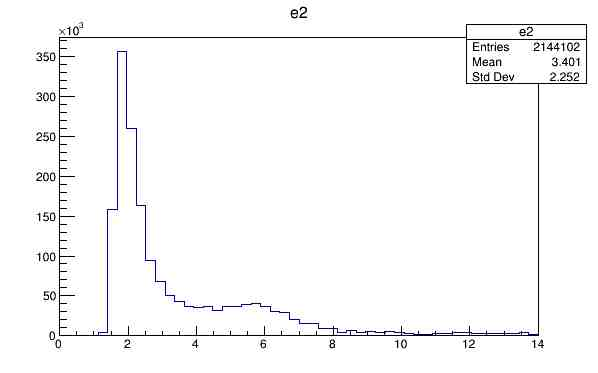
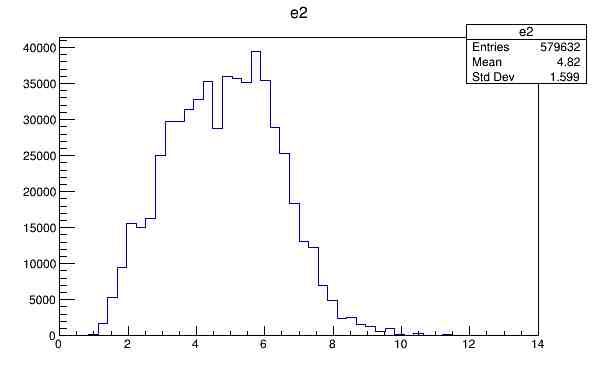
Correct z-track mistake
Instead of taking all the final state particles. Ignore the muons
ANd also take only the hardest jet.

diff --git a/analysis-code/fastjet-analysis.cc b/analysis-code/fastjet-analysis.cc
@@ -2,7 +2,7 @@
 #include "fastjet/PseudoJet.hh"
 #include "fastjet/ClusterSequence.hh"
 #include "fastjet/contrib/SoftDrop.hh"
-void root_to_fastjet(Float_t *px,Float_t *py,Float_t *pz,Float_t *e,Int_t *particle_status,
+void root_to_fastjet(Float_t *px,Float_t *py,Float_t *pz,Float_t *e,Int_t *particle_status,Int_t *particle_PID,
         Int_t n_event_size ,std::vector<float> &e2,double *a){
   std::ifstream fjetin("settings-fastjet.txt");
   double alpha = a[0];
@@ -22,12 +22,12 @@ void root_to_fastjet(Float_t *px,Float_t *py,Float_t *pz,Float_t *e,Int_t *parti
     // Loop over event record to decide what to pass to FastJet
     for (int i = 0; i < n_event_size; ++i) {
       // Store as input to Fastjet
-      if(particle_status[i] == 1){
+      if((particle_status[i] == 1)&&(std::abs(particle_PID[i]) != 13) ){
       fjInputs.push_back( fastjet::PseudoJet( px[i],py[i],pz[i],e[i]));
     }
 
     if (fjInputs.size() == 0) {
-      std::cout << "Error: event with no final state particles" << std::endl;
+      //std::cout << "Error: event with no final state particles" << std::endl;
       continue;
     }
 
@@ -56,9 +56,9 @@ void root_to_fastjet(Float_t *px,Float_t *py,Float_t *pz,Float_t *e,Int_t *parti
     //Softdrop loop
   }
 // Calculating e_2
-    fastjet::ClusterSequence clustSeq2(soft_jets_temp, jetDef);
- // std::vector<fastjet::PseudoJet> soft_jets = fastjet::sorted_by_pt(clustSeq2.inclusive_jets(0.0));
-  std::vector<fastjet::PseudoJet> soft_jets = fastjet::sorted_by_pt(soft_jets_temp);
+   //fastjet::ClusterSequence clustSeq2(soft_jets_temp, jetDef);
+  //std::vector<fastjet::PseudoJet> soft_jets = fastjet::sorted_by_pt(clustSeq2.inclusive_jets(0.0));
+   std::vector<fastjet::PseudoJet> soft_jets = fastjet::sorted_by_pt(soft_jets_temp);
   double e_2 = 0;
   for( unsigned ijet = 0; ijet < soft_jets.size();ijet++){
     if(soft_jets[ijet].pt() < ptcutoff) continue;
@@ -68,6 +68,7 @@ void root_to_fastjet(Float_t *px,Float_t *py,Float_t *pz,Float_t *e,Int_t *parti
     e_2 += constituents[iconst].pt()/soft_jets[ijet].pt() * pow(soft_jets[ijet].delta_R(constituents[iconst])/Rparam,alpha);
     }
    e2.push_back(-log(e_2));
+   break;
   }//Jet Constituent Loop 
  }//Event Loop
 }//Function Ends here

diff --git a/analysis-code/main-analysis.cc b/analysis-code/main-analysis.cc
@@ -36,7 +36,7 @@ void EventLoop(T &event,std::vector<float> &e2,double *a,int &taskid,int &numtas
      std::cout<<std::setw(15)<<"Gathering event  "<<std::setw(10)<<jentry<<std::setw(15)<<
          " in the process "<<std::setw(2)<<taskid<<std::setw(5)<<"("<<(k*100.0)/chunksize<<"% )"<<std::endl;}
      event.GetEntry(jentry);
-     root_to_fastjet(event.Particle_Px,event.Particle_Py,event.Particle_Pz,event.Particle_E,event.Particle_Status,event.Particle_size,e2,a);
+     root_to_fastjet(event.Particle_Px,event.Particle_Py,event.Particle_Pz,event.Particle_E,event.Particle_Status,event.Particle_PID,event.Particle_size,e2,a);
    }
 
 }
@@ -99,5 +99,7 @@ void hist_to_file(TH1 *e2_hist,double *a){
      std::string file;
      file = filename.str();
      TFile *f = new TFile(file.c_str(),"RECREATE");
-     f->WriteTObject(e2_hist,"e2_hist");
+     TCanvas *c1= new TCanvas("c1","e2",600,400);
+     e2_hist->Draw();
+     f->WriteTObject(c1,"e2_hist");
 }
